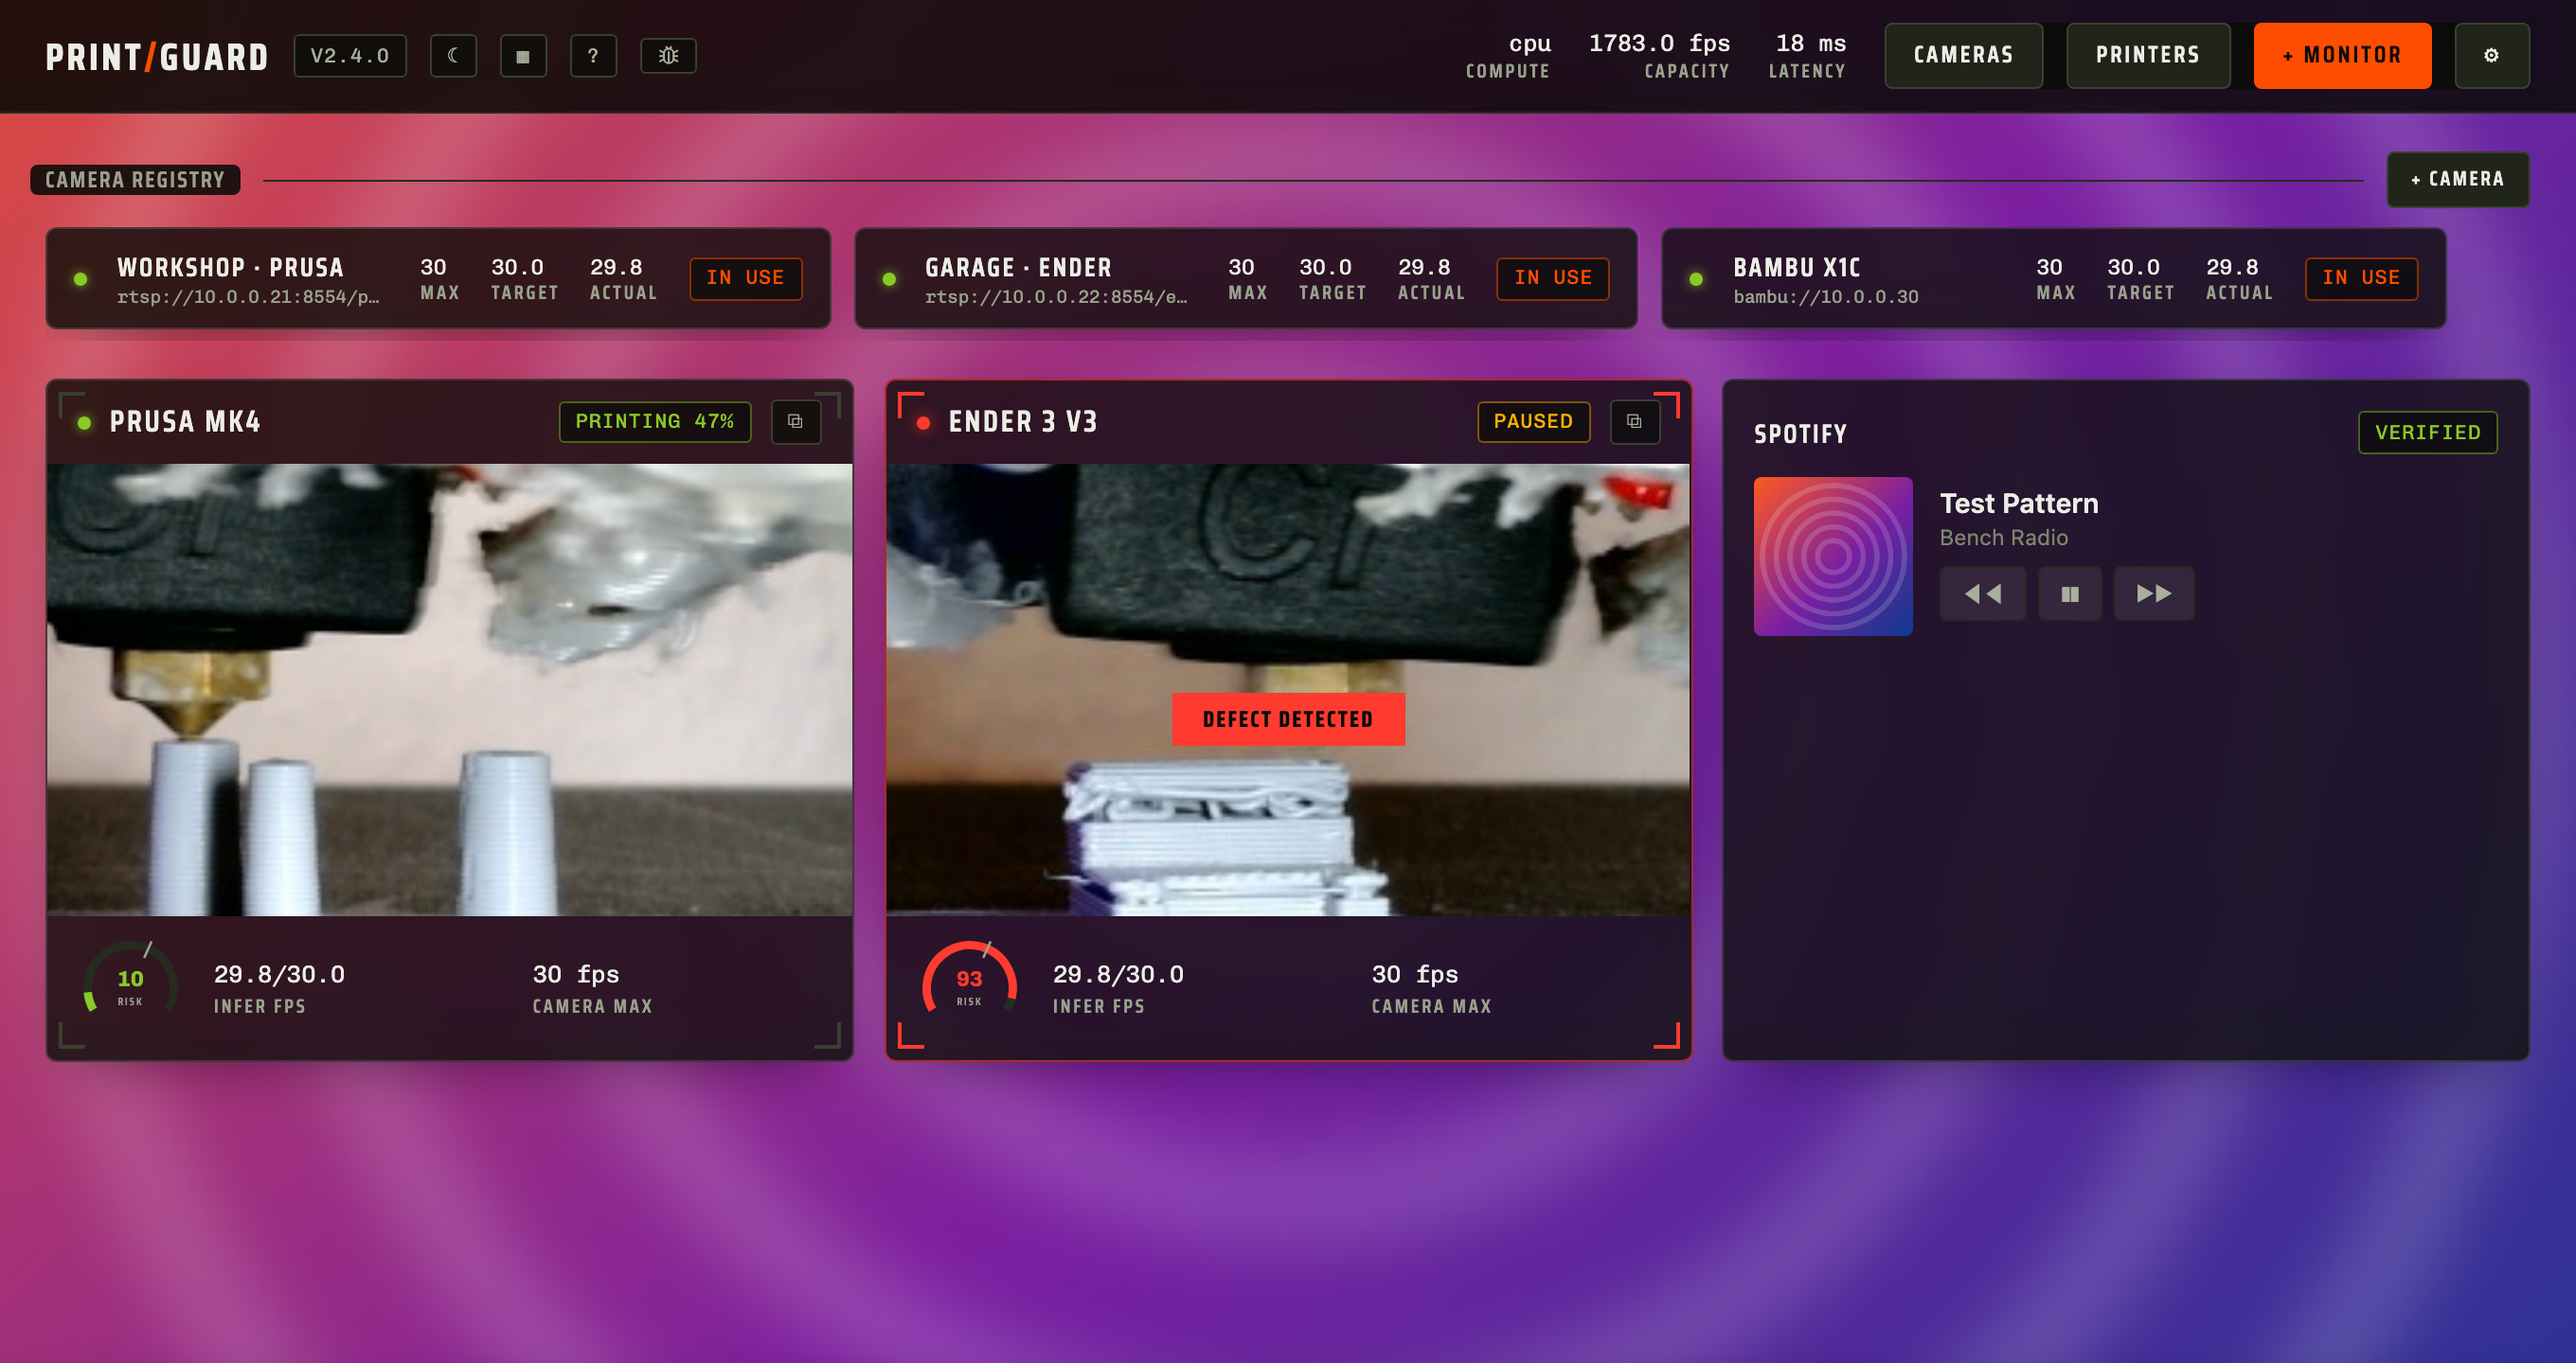
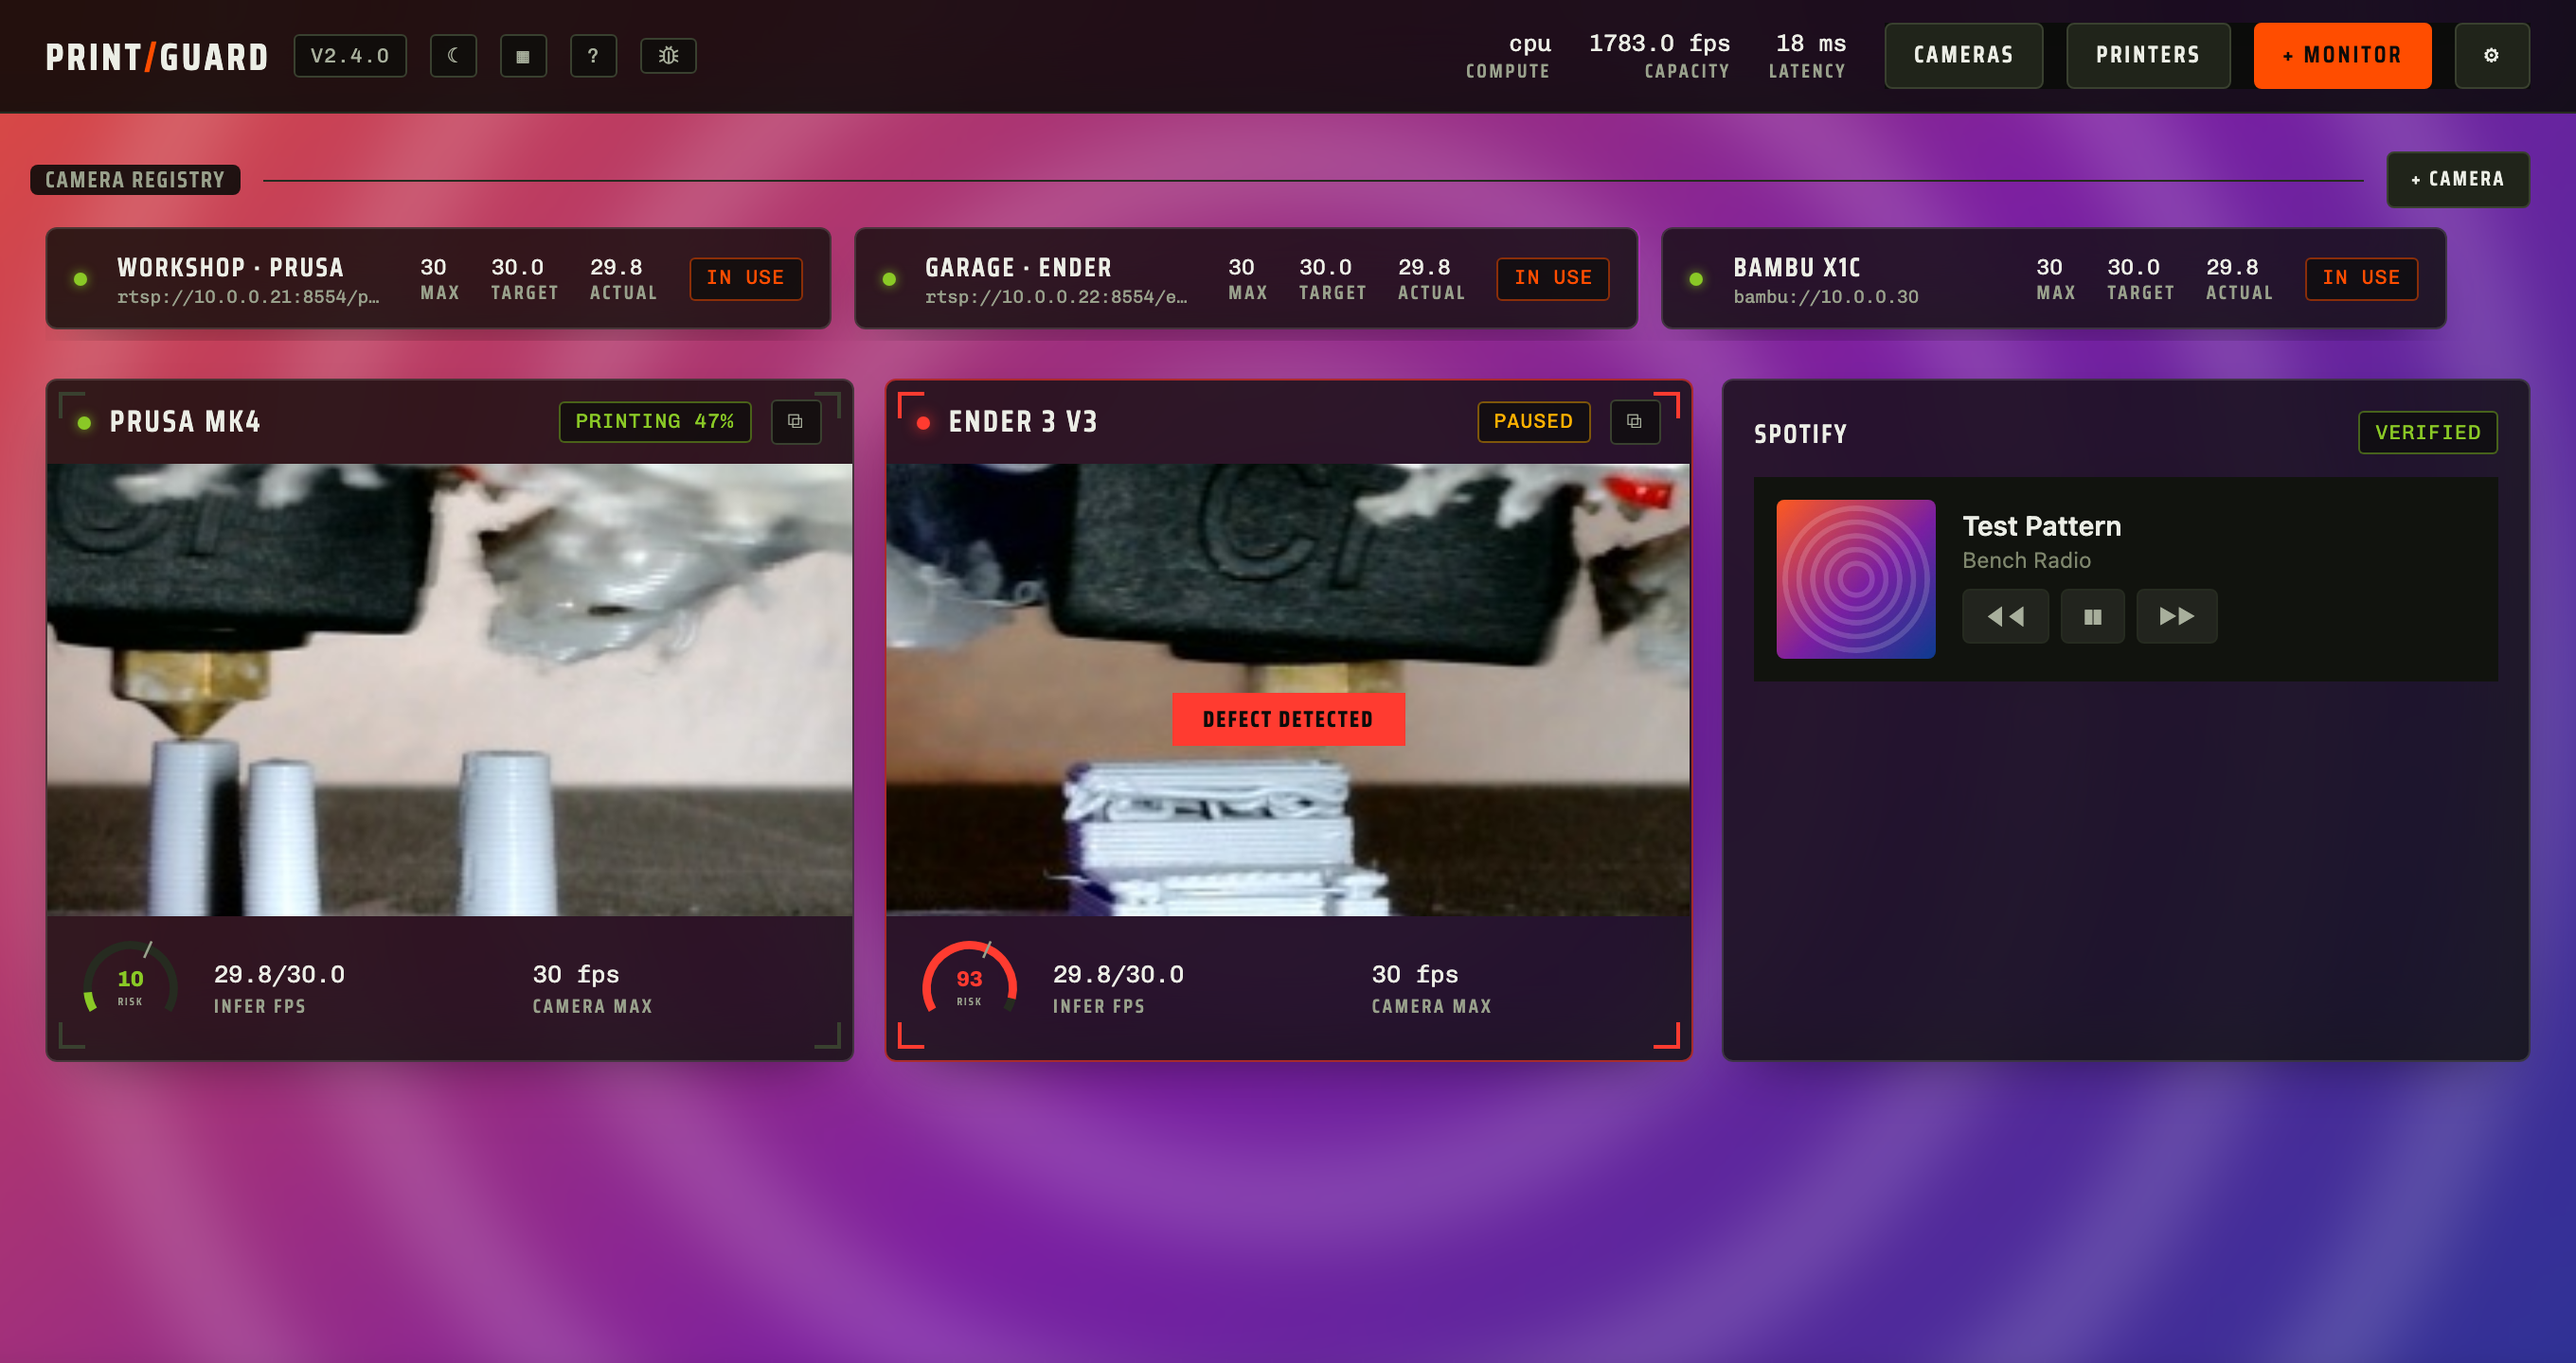
Give the Spotify player its own card, so it reads on a light dashboard

Changed region(s): [[0.6562, 0.3438, 0.9688, 0.5]]

diff --git a/plugins/spotify/panel.html b/plugins/spotify/panel.html
@@ -21,10 +21,13 @@
     --color-line-0: #262b20;
   }
   body {
+    background: #11130e;
+    border-radius: 6px;
     color: var(--color-text-0);
     display: flex;
     font-family: var(--font-body);
     gap: 14px;
+    padding: 12px;
   }
   #cover {
     border-radius: 4px;
